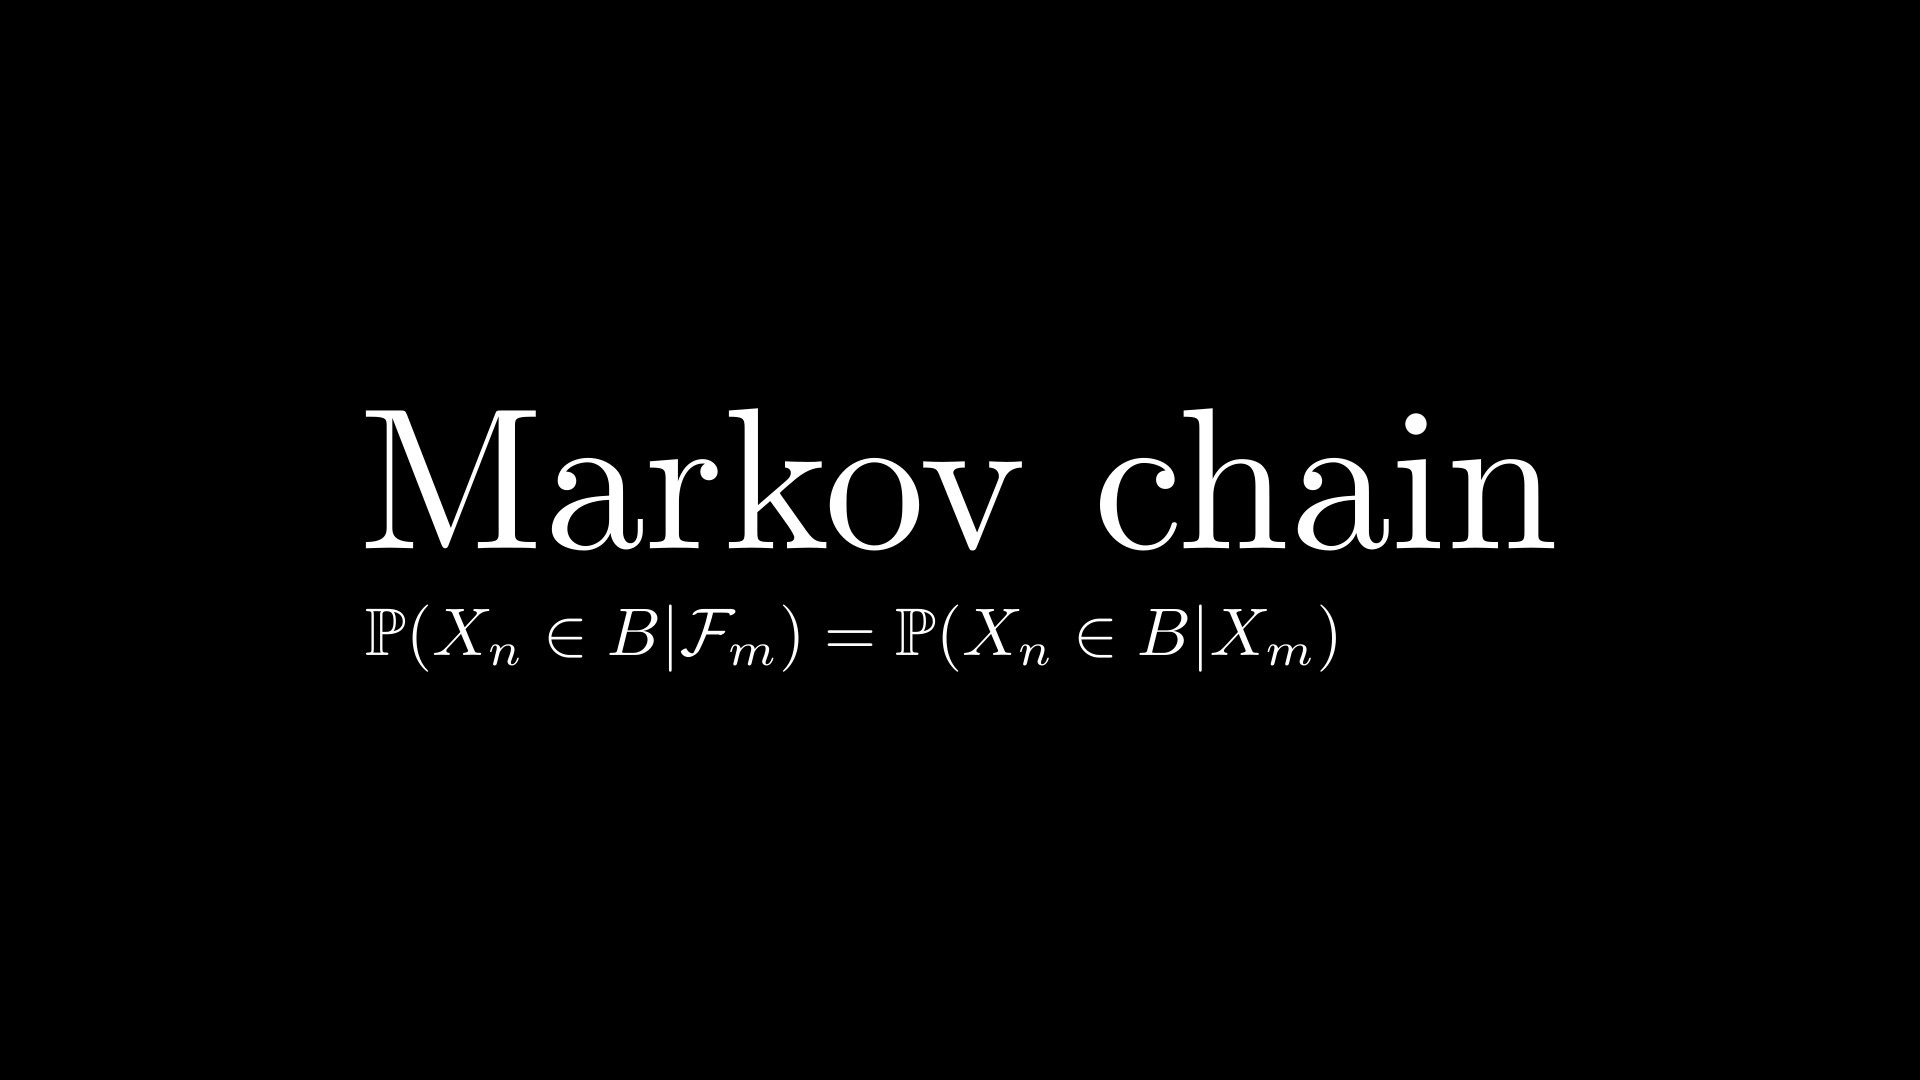
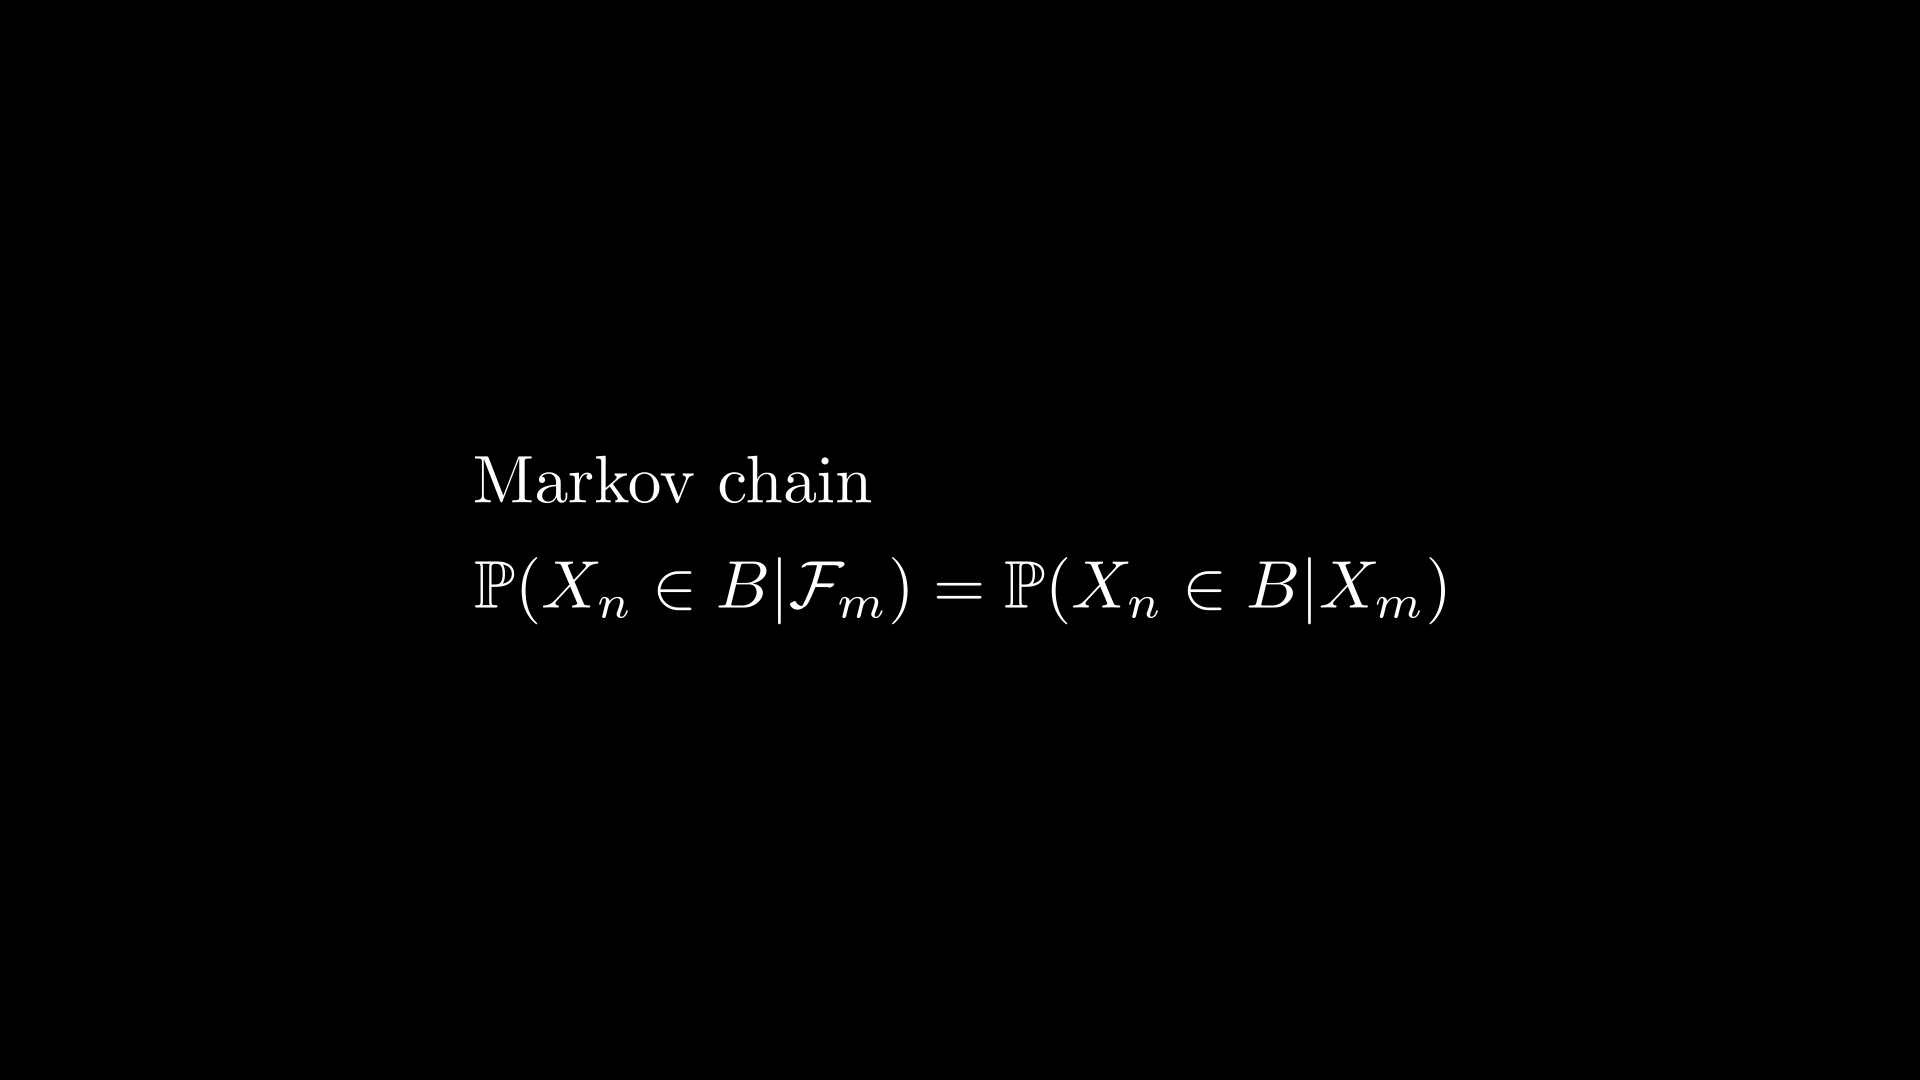
update

Changed region(s): [[0.1875, 0.3667, 0.8125, 0.6111], [0.7188, 0.3667, 0.75, 0.3972]]

diff --git a/main.py b/main.py
@@ -1,14 +1,52 @@
 import manim as mn
 
+class MultipleTabsError(ValueError):
+    def __init__(self, message):
+        super().__init__(message)
+
+def endsWith(literal,text):
+    if len(text) < len(literal):
+        return False
+    elif text[len(literal)-len(text)+1:] == literal:
+        return True
+    else:
+        return False
+
+def startsWith(literal, text):
+    pass
+
+def encapsulates(literal, text):
+    if startsWith(literal, text) and endsWith(literal, text):
+        return True
+    else:
+        return False
+
+def toManimTexObject(text, math):
+    if math:
+        return mn.MathTex(text)
+    else:
+        return mn.Tex(text)
+
 class AnkiCard(mn.Scene):
     def construct(self):
         line = r"Markov chain	$\mathbb{P}(X_n \in B | \mathcal{F}_m) = \mathbb{P}(X_n \in B | X_m)$"
-        tex1 = mn.Tex(r'Markov chain', font_size=144)
-        tex2 = mn.MathTex(r'\mathbb{P}(X_n \in B | \mathcal{F}_m) = \mathbb{P}(X_n \in B | X_m)')
-        group = mn.VGroup(tex1, tex2).arrange(
-                mn.DOWN,
-                aligned_edge=mn.LEFT,
-                buff=0.4
-        )
-
-        self.add(group)
+        if "paste" not in line:
+            line.replace("&nbsp;", '')
+            # Seperate heading (card front) from body (card back)
+            fields = line.split('\t')
+            if len(fields) == 2:
+                heading = fields[0]
+                body = fields[1]
+                tex1 = mn.Tex(r'Markov chain')
+                tex2 = mn.MathTex(r'\mathbb{P}(X_n \in B | \mathcal{F}_m) = \mathbb{P}(X_n \in B | X_m)')
+                group = mn.VGroup(tex1, tex2).arrange(
+                        mn.DOWN,
+                        aligned_edge=mn.LEFT,
+                        buff=0.4
+                )
+                self.play(mn.Write(group))
+            elif len(fields) == 1:
+                body = fields[0]
+                # TODO
+            else: 
+                raise MultipleTabsError(f"Too many tab characters in: {line}")